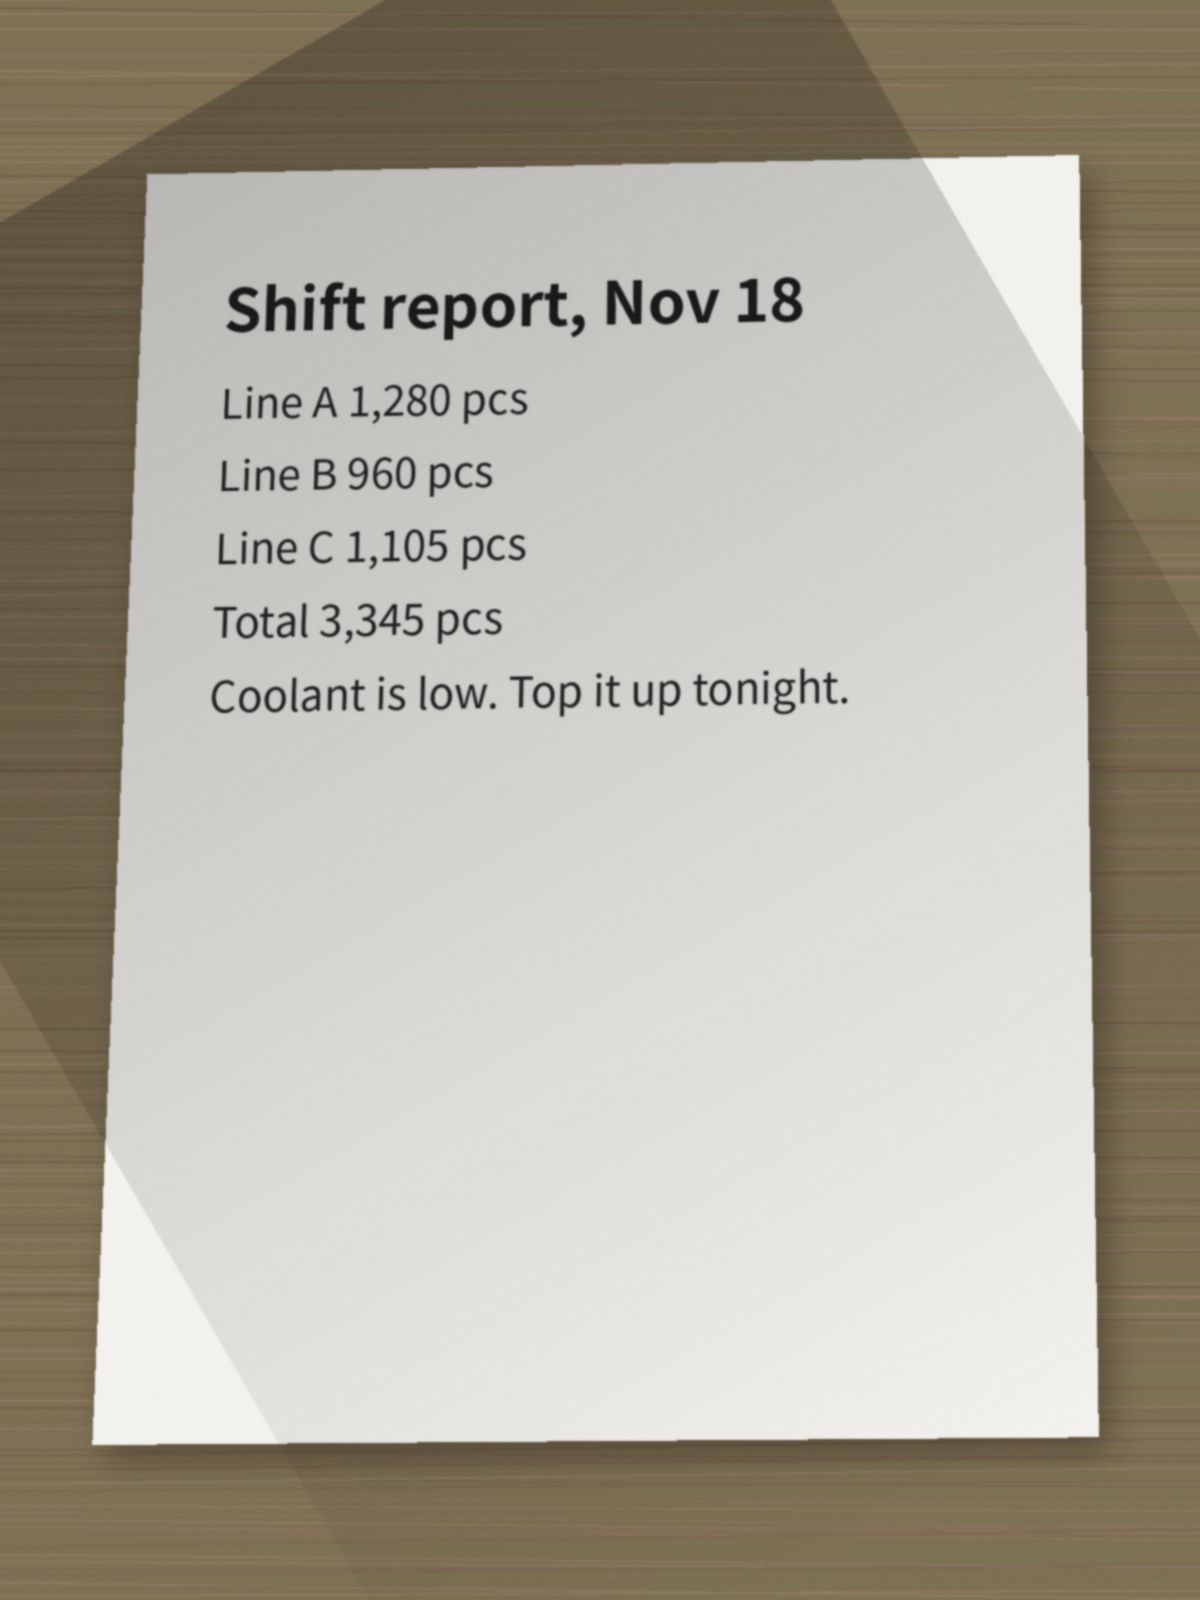
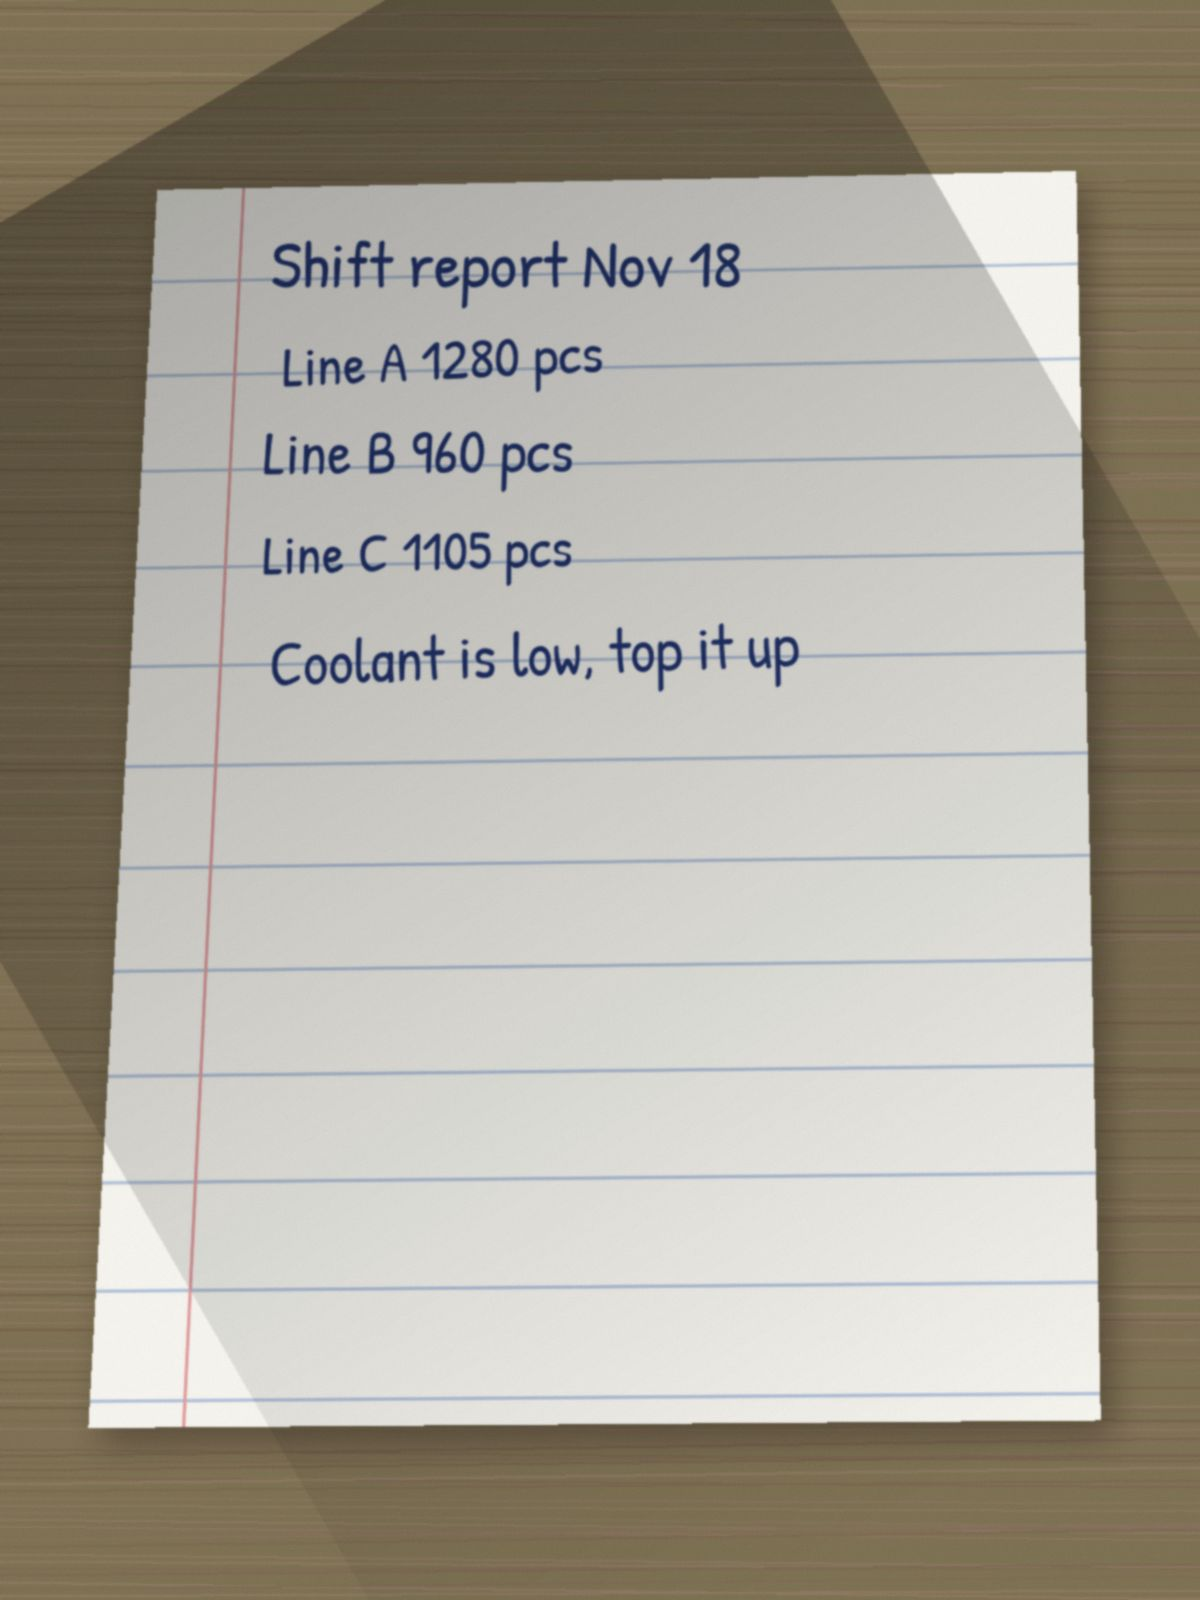
iOS 第 4 轮：去掉没用的第二遍认字；样张报告空格不算错；截图的认字样图换成手写（看得到标黄）；对比记录 1–3 轮
Claude-Session: https://claude.ai/code/session_01KCV9xsxSgJMMeq3zA6xANV

diff --git a/ios/YiyeOCR/Sources/YiyeOCR/VisionOCR.swift b/ios/YiyeOCR/Sources/YiyeOCR/VisionOCR.swift
@@ -41,16 +41,9 @@ public enum VisionOCR {
         guard let doc = observations.first?.document else {
             return Result(page: OCRPage(blocks: []), transcript: "", languages: langs.use.map { $0.maximalIdentifier })
         }
-        var pg = page(from: doc)
-        // 第二遍：RecognizeTextRequest、不开语言校正，逐行对。两遍对不上的字就是拿不准的（网页版也是认两遍对答案）
-        var tr = RecognizeTextRequest()
-        tr.recognitionLevel = .accurate
-        tr.recognitionLanguages = langs.use
-        tr.usesLanguageCorrection = false
-        tr.automaticallyDetectsLanguage = false
-        if let second = try? await tr.perform(on: image, orientation: orientation) {
-            pg = crossCheck(pg, with: second)
-        }
+        // 第二遍（RecognizeTextRequest、不开语言校正）对答案试过：认出来跟第一遍一模一样（同一个引擎），白花一秒，不跑了。
+        // 拿不准的靠每行的信心（DraftBuilder.defaultThreshold）。crossCheck 留着，以后换个不同的认字引擎再用
+        let pg = page(from: doc)
         return Result(page: pg, transcript: doc.text.transcript, languages: langs.use.map { $0.maximalIdentifier })
     }
 

diff --git a/ios/YiyeOCR/Sources/ocr-eval/main.swift b/ios/YiyeOCR/Sources/ocr-eval/main.swift
@@ -60,8 +60,8 @@ func correctness(draft: String, truth: String) -> [Int: [Bool]] {
         for op in TextDiff.ops(String(c), best) {
             switch op {
             case .same(let ch): ok.append(contentsOf: Array(repeating: true, count: String(ch).u16))
-            case .del(let ch): ok.append(contentsOf: Array(repeating: false, count: String(ch).u16))
-            case .ins: if !ok.isEmpty { ok[ok.count - 1] = false }
+            case .del(let ch): ok.append(contentsOf: Array(repeating: ch.isWhitespace, count: String(ch).u16))
+            case .ins(let ch): if !ch.isWhitespace, !ok.isEmpty { ok[ok.count - 1] = false }
             }
         }
         out[i] = ok

diff --git a/ios/tools/make_images.py b/ios/tools/make_images.py
@@ -226,10 +226,11 @@ def main():
 
     demo = ROOT / "Yiye/Demo"
     demo.mkdir(parents=True, exist_ok=True)
-    zh = "11月18日产量\nA线早班 1,280件\nB线早班 960件\nC线早班 1,105件\n合计 3,345件\n冷却液快没了，晚班记得加。"
-    photo(printed_page(zh.split("\n")), "demo-zh", (0.04, 0.03), shade=0.25).save(demo / "ocr-demo-zh.jpg", quality=80)
-    en = "Shift report, Nov 18\nLine A 1,280 pcs\nLine B 960 pcs\nLine C 1,105 pcs\nTotal 3,345 pcs\nCoolant is low. Top it up tonight."
-    photo(printed_page(en.split("\n")), "demo-en", (0.04, 0.03), shade=0.25).save(demo / "ocr-demo-en.jpg", quality=80)
+    # 截图里的「拍照认字结果」用手写的：能看到拿不准的字标黄
+    zh = "11月18日产量\nA线早班 1280件\nB线早班 960件\nC线早班 1105件\n冷却液快没了，晚班记得加"
+    photo(hand_page(zh.split("\n"), FONTS / "LongCang-Regular.ttf", (28, 47, 110), "demo-zh", size=52), "demo-zh", (0.05, 0.03)).save(demo / "ocr-demo-zh.jpg", quality=80)
+    en = "Shift report Nov 18\nLine A 1280 pcs\nLine B 960 pcs\nLine C 1105 pcs\nCoolant is low, top it up"
+    photo(hand_page(en.split("\n"), FONTS / "PatrickHand-Regular.ttf", (28, 47, 110), "demo-en", size=56), "demo-en", (0.05, 0.03)).save(demo / "ocr-demo-en.jpg", quality=80)
     hand = "11月3日交接\nA线早班 1280件\nB线早班 960件\n早班交接完毕，3号机换了刀\n冷却液快没了，晚班记得加"
     photo(hand_page(hand.split("\n"), FONTS / "MaShanZheng-Regular.ttf", (28, 47, 110), "demo-hand", size=48), "demo-hand", (0.05, 0.03)).save(demo / "handover.jpg", quality=78)
 

diff --git a/ios/docs/对比.md b/ios/docs/对比.md
@@ -28,3 +28,23 @@
 | 列表 | 原木桌面、灰白纸条、左上角回形针、置顶的米黄纸，跟少数派 2014 的描述对得上 | 不动 |
 | 顶栏、按钮 | 圆角小方块、上亮下暗一圈细边，没有液态玻璃（UIDesignRequiresCompatibility + 自己画） | 不动 |
 | 分享图「便签」 | 跟网页版一叶笺「便签」一致（暖白纸、细噪点、橙红点缀、落款前一道线）；跟锤子分享图比少了纸边两道框线、桌面衬底 | 单子定的是网页版「便签」原样，先不加；Song 看了想要锤子那两道框线再加 |
+
+## 第 2 轮（CI 23d7988，11-20 11:04）
+
+| 哪儿 | 结果 | 下一步 |
+|---|---|---|
+| 写字页 | 字行 32pt 一行，跟横线对齐了（2 倍图量：字行间隔 64px，横线间隔 64px，字底离线 2.5pt），标题、列表、引用、居中每一行都坐在线上 | 不动 |
+| 分享页 | 两个缩略图整宽显示了 | 不动 |
+| 拍照认字 | 清单编号不再重复（p3 92%→100%，h2 76%→100%）；英文首行「Shift report, Nov 18」成了标题；印刷 95%→97%，手写 83%→89% | — |
+| 标黄 | 第二遍 RecognizeTextRequest 认出来的跟第一遍一模一样（同一个引擎），对答案对不出东西。但每行的信心有用：错的行 0.37–0.87，对的行 0.78–0.99 | 改按每行信心标：低于 0.82 的行标黄；Vision 给了逐词信心的，只标低的那几个词 |
+| 勾选框 | 没变成列表：Vision 把每一行切成单独一段，块里判断「连着两行」不成立 | 改成整页认完以后按行判断 |
+| 时间 | 新加坡时间了 | 不动 |
+
+## 第 3 轮（CI f882171，11-20 11:18）
+
+| 哪儿 | 结果 | 下一步 |
+|---|---|---|
+| 标黄 | 按每行信心标以后：10 张样张标黄 11 段，11 段都真有错；认错的 42 个字里 20 个落在黄底里。Vision 对中文不给逐词结果，只能整行标 | 第二遍认字没用，去掉（每张省 0.6–1.3 秒） |
+| 勾选框 | 「口牛奶2盒」变成「- 牛奶2盒」，p2 认对 81%→100%；印刷合计 99% | 不动 |
+| 截图「拍照认字结果」 | 用的是印刷体样图，信心都高，看不到标黄 | 换成手写的样图（中文龙藏体、英文 Patrick Hand），截图里能看到标黄 |
+| 样张报告 | 「标黄里真错」把少个空格也算成错（认对几成不算空格，两边不一致） | 空格多少一律不算错 |
